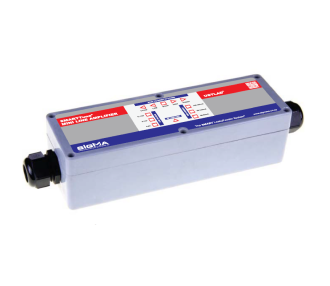
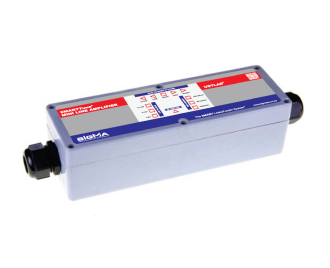
commit

diff --git a/powercoupler.html b/powercoupler.html
@@ -46,21 +46,28 @@
     <section class="section-container">
         <div class="item-banner banner-1">
             <div class="item-text-container">
-                <h5>SmartTune VHF Line Amplifier</h5>
+                <h5>Power Coupler VHF</h5>
                 <h6>Automatic Line Length Compensations</h6>
-                <p>Bandwidth: Uplink - 2.5Mhz. Downlink - 2.5Mhz</p>
+                <p>Frequency: 20 to 175Mhz</p>
             </div>
         </div>
         <div class="description-container">
             <div class="description-img-container">
-                <img src="/images/leaky feeder equipment1.png" alt="">
+                <img src="/images/leaky feeder equipment2.png" alt="Power Coupler VHF">
                 <!-- <a href="/brochures/kenwood-nxr-710-810-repeater.pdf" class="cta-btn" target="_blank">Get Brochure</a> -->
             </div>
             <div class="description-text-contaner">
                 <p>
-                    The VSTLAD SMARTTune is a qauntum step forward in amplifier design, offering a very SMART attenuator, which means that you can literally install SMARTTune amplifiers anywhere in the leaky feeder cable and amplifier will set it's gain according to yhe level of input signal received from the previos amplifier. As all amplifiers include AGC in the common path, the level of output signal in the Base TX direction will be constant. This constant output of power is used by the next amplifier in the system as packaged in an IP66 heavy duty enclosure. The amplifier is powered from leaky feeder cable; no special tools are required to splice it into the leaky feeder cable.
+                    The VPC is VHF Power Coupler that is designed to allow for thecoupling of DC power into the leaky feeder cable to power the bi_directional amplifiers in the vicinity.
                     <br><br>
-                    The SMARTTune amplifier incorporates 2 separate amplifiers, TX Down-Link and RX Up-Link. The VSTLAT line amplifier also offers Digital Drive-By Diagnostics, in the form of 11 high intensity LED's, which indicate the condition of amplifier. Simply by walking or driving past the amplifier you can determine its condition - VOLTAGE - 3 LED Volt Meter, CURRENT drain - 3 LED Amp meter and Amplifier Gain - 5 LED meter. The amplifier was specially designed for the transmission of high speed Data.
+                    The VPC can be configured to couple power in a single directionor both directions by fitting a jumper.
+                    <br><br>
+                    <ul>
+                        <li>RF passes through with minimal loss</li>
+                        <li>Well matched impedances</li>
+                        <li>DC poewer can be supplied to Down link or Uplink as well as Downlink</li>
+                        <li>Robust enclosurewith Ip66 rating</li>
+                    </ul>
                 </p>
             </div>
         </div>

diff --git a/products.html b/products.html
@@ -112,7 +112,7 @@
                 <img src="/images/leaky feeder equipment1.png" alt="">
                 <p>SmartTune VHF Line Amplifier</p>
             </a>
-            <a href="" class="pack-container">
+            <a href="/powercoupler.html" class="pack-container">
                 <img src="/images/leaky feeder equipment2.png" alt="">
                 <p>Power Coupler VHF</p>
             </a>
